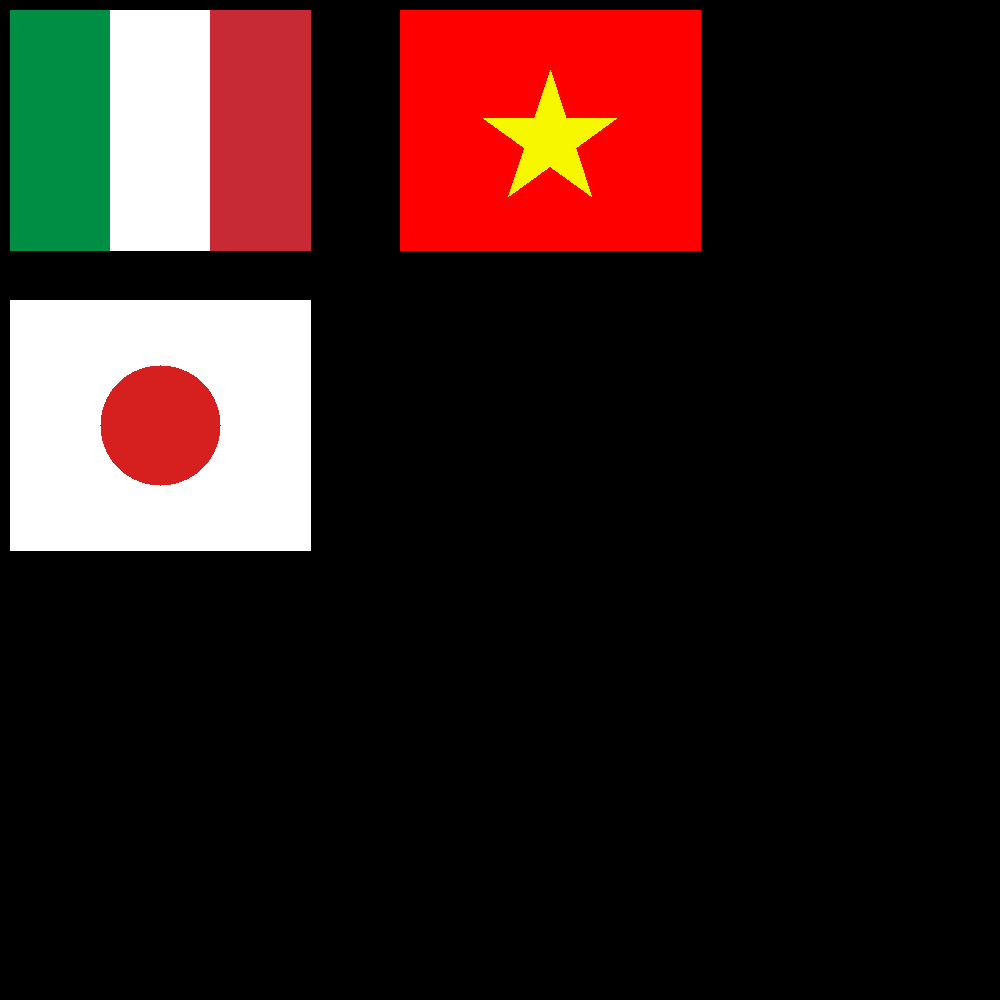
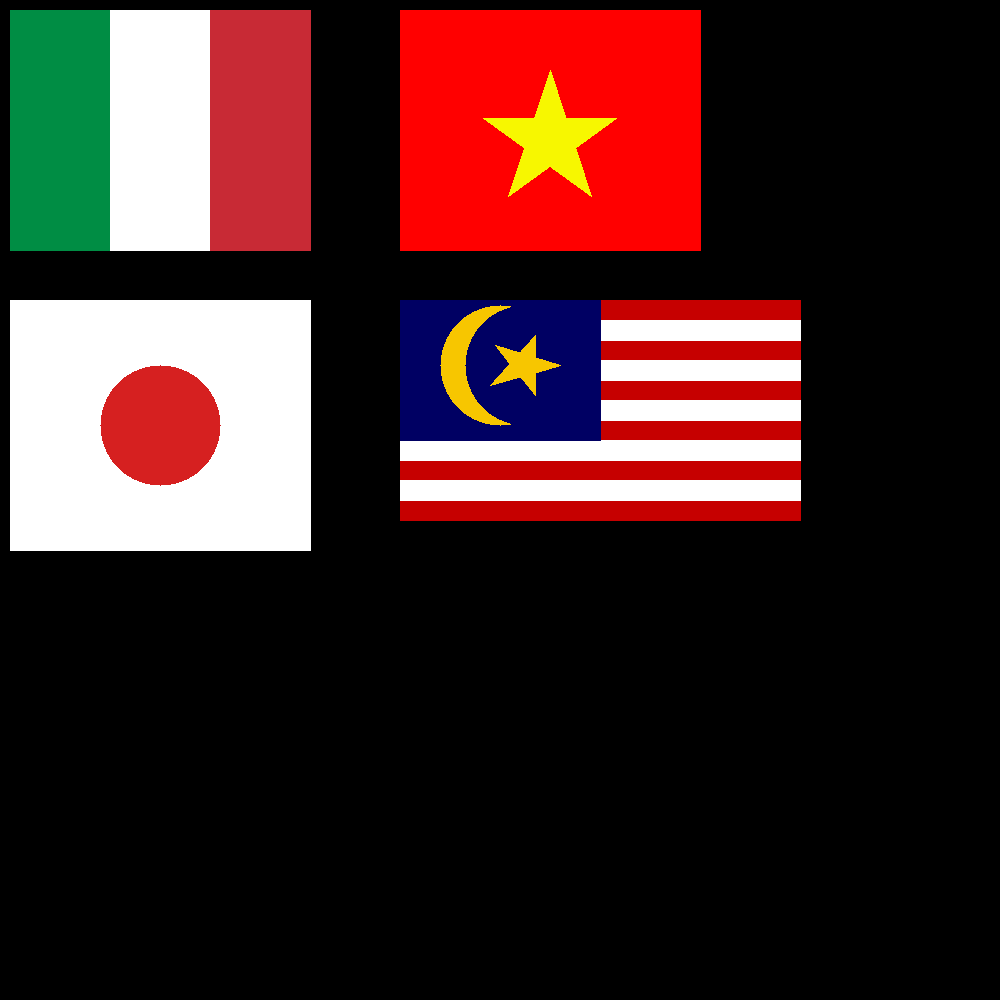
use function and assign point to variables

Changed region(s): [[0.403, 0.279, 0.806, 0.527]]

diff --git a/intro_openCV_ex/draw_flag.py b/intro_openCV_ex/draw_flag.py
@@ -5,16 +5,12 @@ import math
 # draw the black image
 img = np.zeros((1000, 1000, 3), np.uint8)
 
-## Draw italya flag
-cv.rectangle(img,(10,10),(110,250),(68,141,0), -1)
-cv.rectangle(img,(110,10),(210,250),(255,255,255), -1)
-cv.rectangle(img,(210,10),(310,250),(53,42,200), -1)
+points_italia = {'p11': (10,10), 'p12': (110,250),
+                 'p21': (110,10), 'p22': (210,250),
+                 'p31': (210,10), 'p32': (310,250)}
+colors_italia = [(68,141,0), (255,255,255), (53,42,200)]
 
-## Draw Vietnamese Flag
-# draw the red background
-cv.rectangle(img,(400, 10),(700,250),(0,0,255), -1)
-
-# draw star
+# star point of vietnam
 x = 70
 g = math.pi/5
 x1 = x * math.sin(g)
@@ -22,32 +18,103 @@ x2 = x + x * math.cos(g)
 x3 = x * math.sin(2 * g)
 x4 = x - x * math.cos(2 * g)
 x5 = x1 * math.tan(g)
-# height = edge * math.sin(math.pi/3)
 
-pts = np.array([[641, 240],
-               [641 - x1, 240 - x2],
-               [641 + x3, 240 - x4],
-               [641 - x3, 240 - x4],
-               [641 + x1, 240 - x2],
-               [641, 240]], np.int32)
-pts = np.array([[550, 70],
-               [550 - x1, 70 + x2],
-               [550 + x3, 70 + x4],
-               [550 - x3, 70 + x4],
-               [550 + x1, 70 + x2],
-               [550, 70]], np.int32)
-pts = pts.reshape((-1,1,2))
-cv.fillPoly(img,pts=[pts],color=(0,247,247))
-pts = np.array([[550 + x3, 70 + x4],
-               [550 - x3, 70 + x4],
-               [550, 70 + x2 - x5]], np.int32)
-pts = pts.reshape((-1,1,2))
-cv.fillPoly(img,pts=[pts],color=(0,247,247))
+points_vn = {'xr': (400, 10),
+             'yr': (700,250),
+             'ps1': [550, 70],
+             'ps2': [550 - x1, 70 + x2],
+             'ps3': [550 + x3, 70 + x4],
+             'ps4': [550 - x3, 70 + x4],
+             'ps5': [550 + x1, 70 + x2],
+             'ps6': [550, 70],
+             'ps7': [550, 70 + x2 - x5]}
+colors_vn = [(0,0,255), (0,247,247)]
 
-## Draw japan flag
-cv.rectangle(img,(10,300),(310,550),(255,255,255), -1)
-cv.circle(img,(160,425), 60, (32,32,214), -1)
+points_jp = {'pr1': (10,300),
+             'pr2': (310,550),
+             'pc': (160,425)}
+colors_jp = [(255,255,255), (32,32,214)]
 
+points_ml = {'pr11': (400,300),'pr12': (800,520),
+             'pr21': (400,320),'pr22': (800,340),
+             'pr31': (400,360),'pr32': (800,380),
+             'pr41': (400,400),'pr42': (800,420),
+             'pr51': (400,440),'pr52': (800,460),
+             'pr61': (400,480),'pr62': (800,500),
+             'pr71': (400,300),'pr72': (600,440),
+             'pc1': (500,365), 'pc2': (525,365)}
+colors_ml = [(0,0,198), (255,255,255), (0,198,247), (99,0,0)]
+
+def draw_italia(points, colors):
+    ## Draw italya flag
+    # cv.rectangle(img, points[0][1], colors[0], -1)
+    # cv.rectangle(img, points[1], colors[1], -1)
+    # cv.rectangle(img, points[2], colors[2], -1)
+    cv.rectangle(img, points['p11'], points['p12'], colors[0], -1)
+    cv.rectangle(img, points['p21'], points['p22'], colors[1], -1)
+    cv.rectangle(img, points['p31'], points['p32'], colors[2], -1)
+
+def draw_vietnam(points, colors):
+    ## Draw Vietnamese Flag
+    # draw the red background
+    cv.rectangle(img, points['xr'], points['yr'], colors[0], -1)
+
+    # draw star
+    pts = np.array([points['ps1'],
+                    points['ps2'],
+                    points['ps3'],
+                    points['ps4'],
+                    points['ps5'],
+                    points['ps6']], np.int32)
+    pts = pts.reshape((-1,1,2))
+    cv.fillPoly(img,pts=[pts],color=colors[1])
+    pts = np.array([points['ps3'],
+               points['ps4'],
+               points['ps7']], np.int32)
+    pts = pts.reshape((-1,1,2))
+    cv.fillPoly(img,pts=[pts],color=(0,247,247))
+
+def draw_japan(points, colors):
+    ## Draw japan flag
+    cv.rectangle(img,points['pr1'],points['pr2'], colors[0], -1)
+    cv.circle(img,points['pc'], 60, colors[1], -1)
+
+
+def draw_malay(points, colors):
+    ## Draw Malaysia flag
+    cv.rectangle(img,points['pr11'],points['pr12'],colors[0], -1)
+
+    cv.rectangle(img,points['pr21'], points['pr22'],colors[1], -1)
+    cv.rectangle(img,points['pr31'], points['pr32'],colors[1], -1)
+    cv.rectangle(img,points['pr41'], points['pr42'],colors[1], -1)
+    cv.rectangle(img,points['pr51'], points['pr52'],colors[1], -1)
+    cv.rectangle(img,points['pr61'], points['pr62'],colors[1], -1)
+
+    cv.rectangle(img,points['pr71'], points['pr72'],(99,0,0), -1)
+
+    cv.circle(img,points['pc1'], 60, colors[2], -1)
+    cv.circle(img,points['pc2'], 60, colors[3], -1)
+
+    pts = np.array([[535,335],
+                [490,385],
+                [560,365],
+                [495,345],
+                [535,395]], np.int32)
+
+    pts = pts.reshape((-1,1,2))
+    cv.fillPoly(img,pts=[pts],color=(0,198,247))
+    pts = np.array([[560,365],
+               [495,345],
+               [520,377]], np.int32)
+    pts = pts.reshape((-1,1,2))
+    cv.fillPoly(img,pts=[pts],color=(0,198,247))
+    # cv.polylines(img,[pts],True,(32,32,214))
+
+draw_italia(points_italia, colors_italia)
+draw_vietnam(points_vn, colors_vn)
+draw_japan(points_jp, colors_jp)
+draw_malay(points_ml,colors_ml)
 # Show image
 cv.imshow("img", img)
+cv.imwrite("flag.png", img)
 cv.waitKey()
